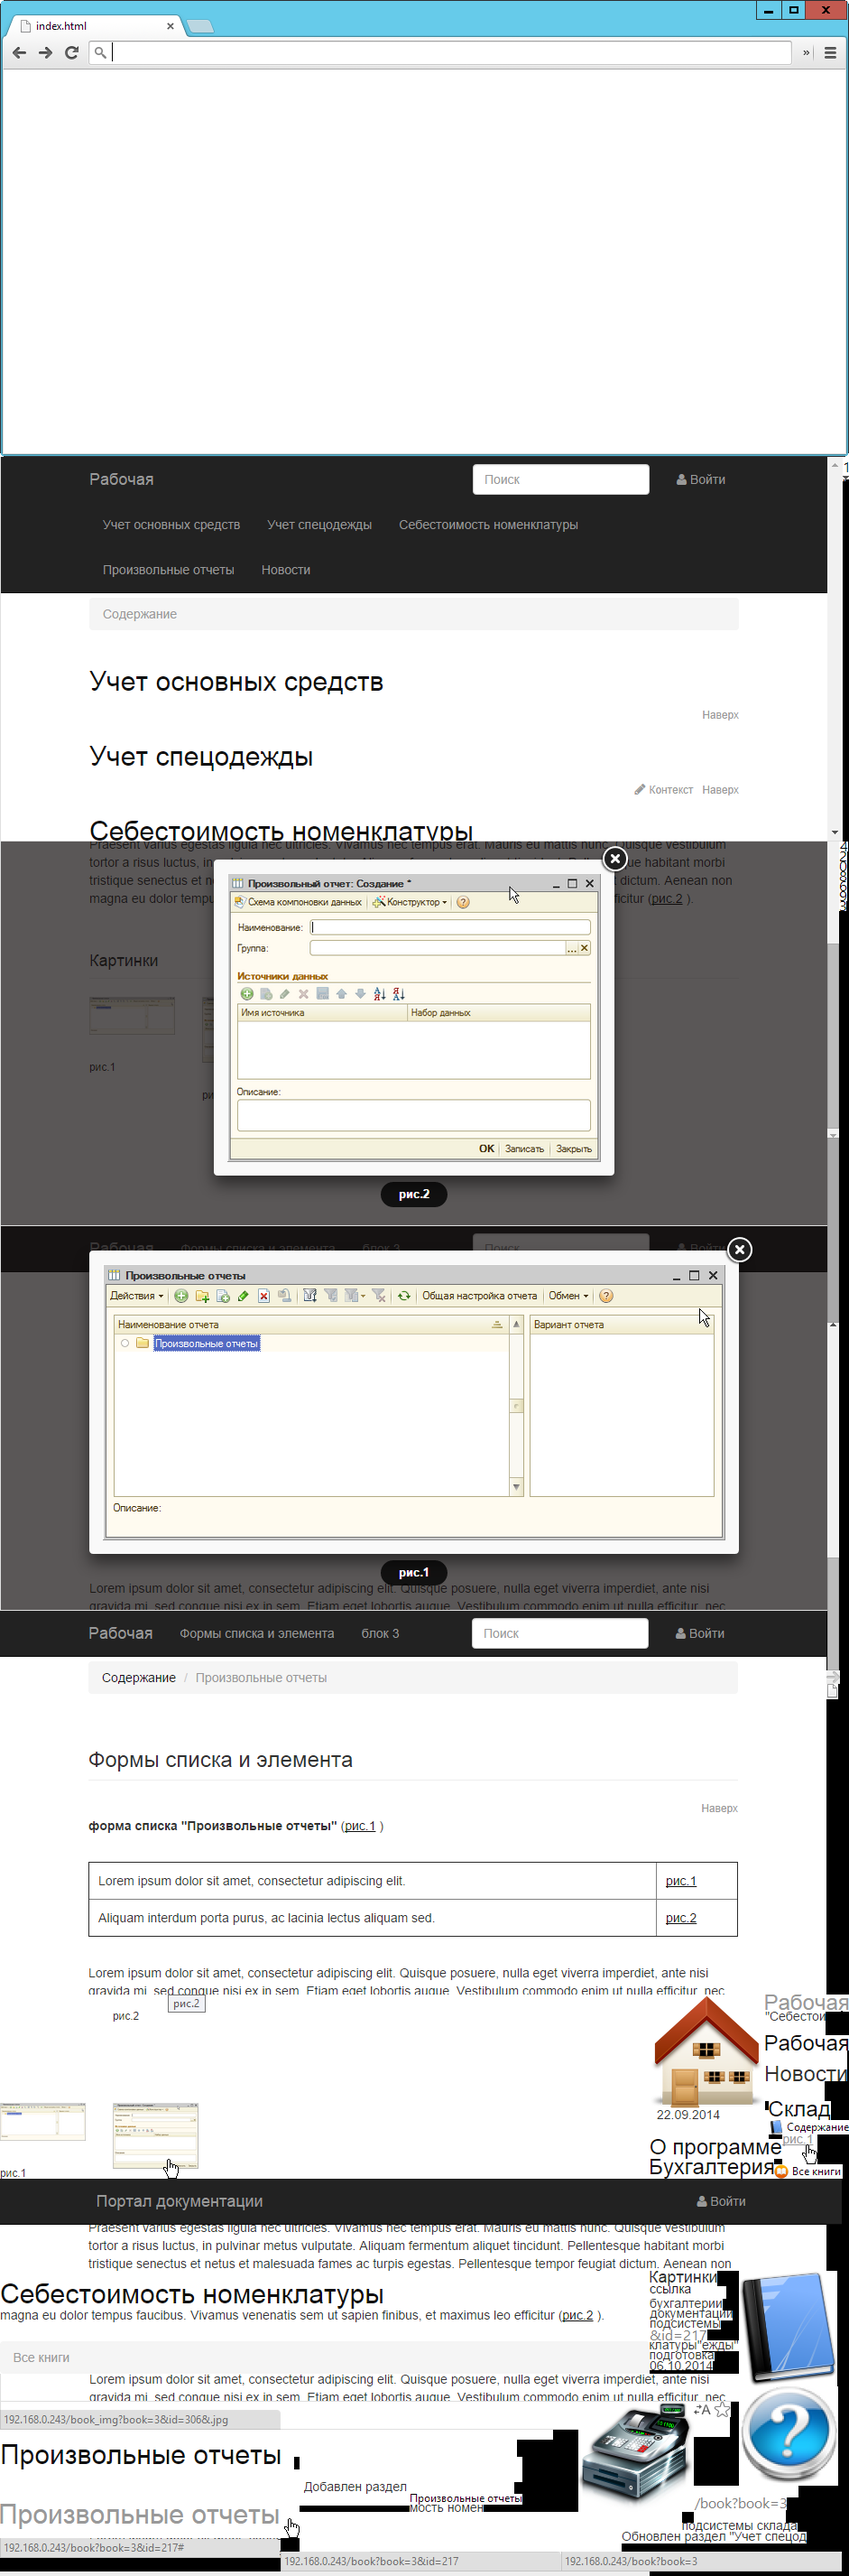
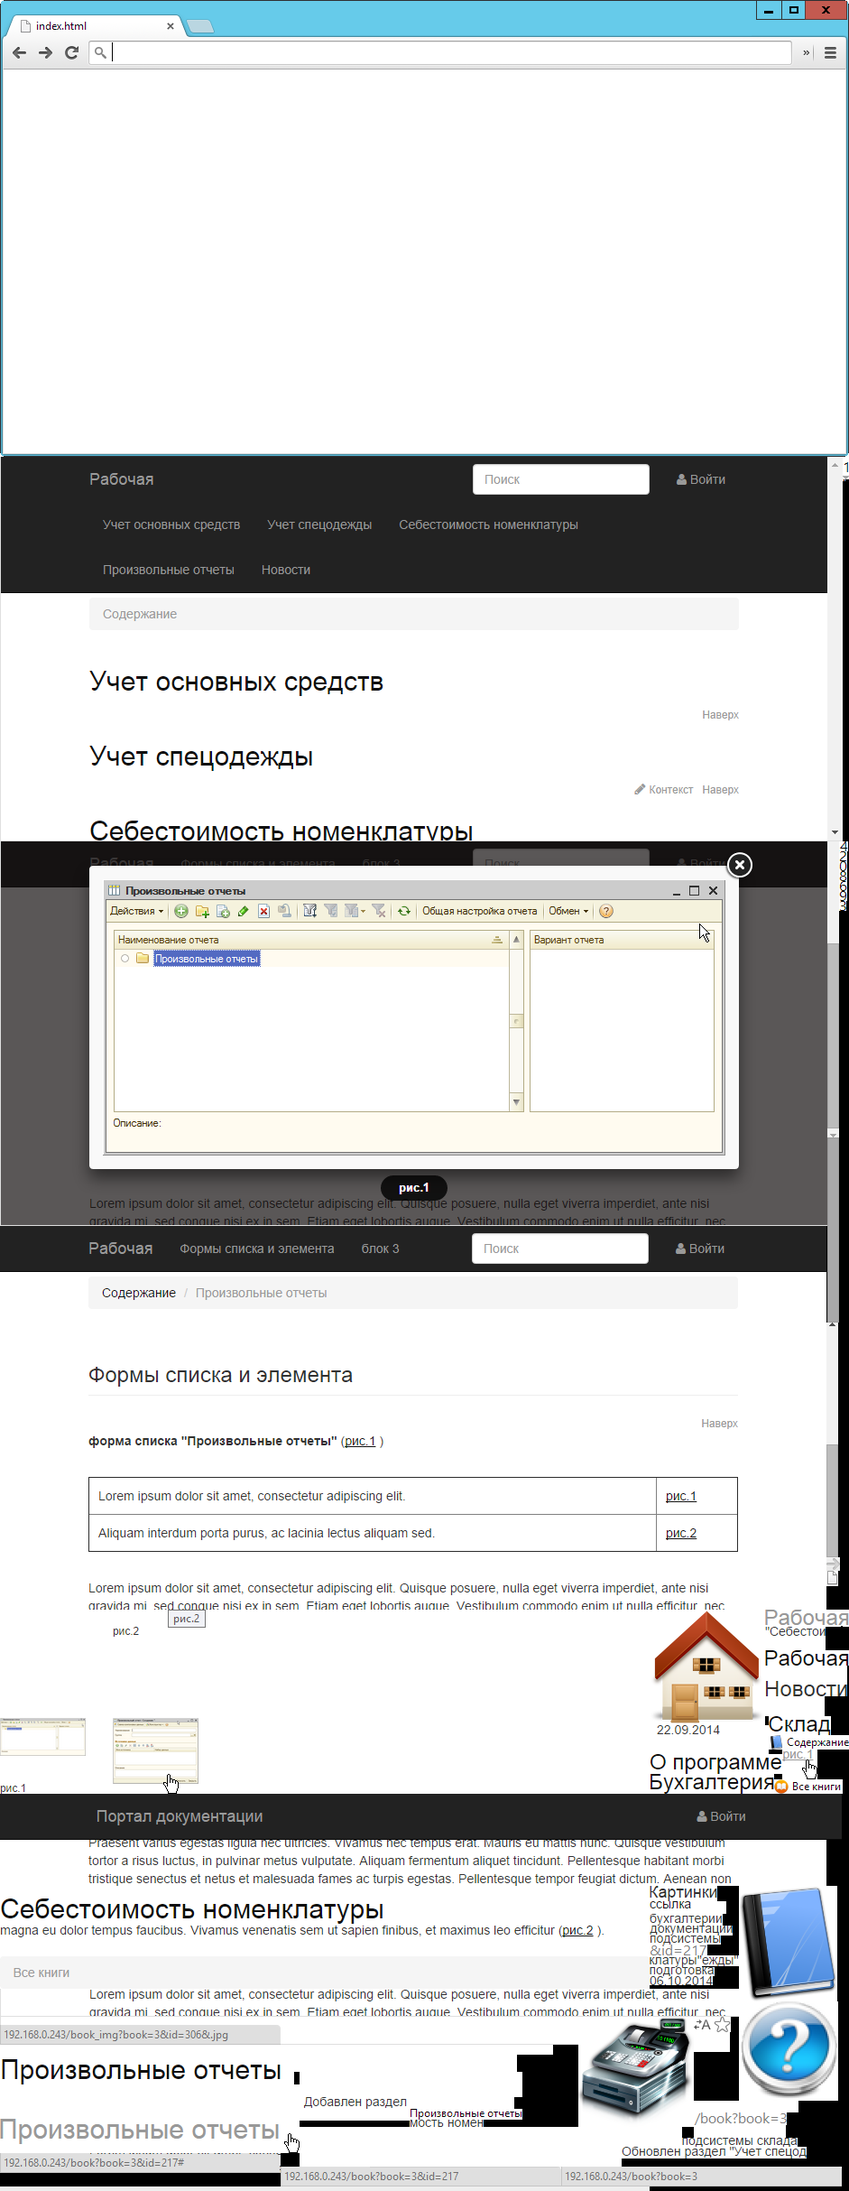
-

diff --git a/media/plg_ebook_carusel/snaps_anim.js b/media/plg_ebook_carusel/snaps_anim.js
@@ -1,1 +1,1 @@
-snaps_timeline = [{"delay": 150, "blit": [[0, 0, 941, 506, 0, 0]]}, {"delay": 150, "blit": [[934, 506, 7, 21, 124, 47]]}, {"delay": 150, "blit": [[930, 987, 9, 11, 133, 53]]}, {"delay": 150, "blit": [[930, 943, 9, 11, 142, 53]]}, {"delay": 150, "blit": [[934, 531, 3, 2, 151, 62]]}, {"delay": 150, "blit": [[935, 512, 6, 11, 155, 53]]}, {"delay": 150, "blit": [[930, 976, 9, 11, 163, 53]]}, {"delay": 150, "blit": [[930, 965, 9, 11, 172, 53]]}, {"delay": 150, "blit": [[934, 531, 3, 2, 181, 62]]}, {"delay": 150, "blit": [[930, 954, 9, 11, 184, 53]]}, {"delay": 150, "blit": [[934, 531, 3, 2, 193, 62]]}, {"delay": 150, "blit": [[916, 1865, 13, 17, 105, 51], [930, 943, 9, 11, 196, 53]]}, {"delay": 150, "blit": [[930, 932, 10, 11, 204, 53]]}, {"delay": 1050, "blit": [[930, 998, 8, 11, 214, 53]]}, {"delay": 2000, "blit": [[858, 2397, 76, 16, 20, 21], [769, 2660, 41, 17, 833, 50], [916, 1850, 15, 15, 43, 51], [0, 2413, 933, 51, 4, 77], [0, 2593, 720, 36, 111, 133], [720, 2209, 128, 128, 111, 189], [819, 2515, 109, 128, 499, 189], [819, 2643, 110, 110, 673, 189], [641, 2660, 128, 122, 298, 192], [720, 2369, 147, 22, 673, 323], [852, 2327, 69, 21, 111, 341], [720, 2391, 138, 22, 299, 341], [848, 2254, 93, 17, 487, 341], [756, 2794, 128, 10, 111, 380], [720, 2570, 79, 10, 298, 380], [720, 2605, 72, 10, 486, 380], [720, 2546, 81, 13, 298, 398], [720, 2559, 92, 11, 485, 400], [0, 2852, 720, 1, 111, 439]]}, {"delay": 2000, "blit": [[848, 2209, 93, 19, 487, 341], [889, 2376, 17, 21, 566, 360], [622, 2826, 311, 22, 3, 481]]}, {"delay": 2000, "blit": [[852, 2348, 89, 16, 20, 21], [769, 2766, 103, 14, 222, 52], [0, 506, 934, 426, 3, 77]]}, {"delay": 2000, "blit": [[1, 659, 916, 151, 4, 77], [920, 1465, 7, 4, 925, 84], [917, 1260, 13, 205, 922, 167], [99, 815, 720, 39, 102, 233], [703, 868, 116, 13, 706, 286], [99, 896, 216, 35, 102, 314], [315, 902, 142, 29, 318, 320], [359, 2535, 66, 22, 461, 333], [779, 857, 40, 24, 782, 358], [0, 2694, 70, 41, 102, 397], [72, 2700, 239, 29, 174, 403], [769, 2753, 116, 13, 706, 439], [779, 787, 40, 11, 782, 454], [332, 2782, 424, 22, 103, 480]]}, {"delay": 2000, "blit": [[0, 2515, 720, 42, 102, 80], [779, 787, 40, 11, 782, 138], [0, 2691, 326, 44, 102, 161], [917, 932, 13, 328, 922, 167], [779, 771, 40, 27, 782, 205], [332, 2721, 247, 28, 102, 244], [848, 2288, 91, 17, 103, 279], [454, 2749, 116, 13, 706, 286], [0, 2851, 720, 1, 102, 310], [332, 2804, 357, 22, 103, 327], [848, 2305, 66, 22, 461, 333], [779, 787, 40, 11, 782, 337], [720, 2615, 70, 10, 112, 366], [689, 2804, 205, 13, 240, 366], [778, 2592, 41, 12, 445, 366], [720, 2532, 85, 14, 737, 368], [720, 2337, 132, 32, 104, 406], [332, 2749, 122, 26, 239, 406], [848, 2228, 67, 26, 362, 406], [720, 2592, 58, 13, 513, 406], [454, 2774, 82, 8, 430, 408], [720, 2532, 46, 8, 737, 408], [573, 2691, 40, 11, 782, 454], [0, 2850, 720, 1, 102, 481]]}, {"delay": 2000, "blit": [[43, 51, 15, 15, 43, 51], [0, 2773, 332, 38, 104, 177], [311, 2826, 311, 22, 3, 481]]}, {"delay": 2000, "blit": [[454, 2762, 125, 12, 40, 24], [916, 1850, 15, 15, 43, 51], [720, 2580, 64, 12, 326, 52], [0, 1784, 916, 51, 4, 77], [922, 513, 7, 4, 925, 84], [98, 1840, 720, 36, 102, 133], [0, 2735, 332, 38, 104, 177], [769, 2688, 40, 11, 782, 221], [98, 1940, 293, 22, 102, 233], [0, 2849, 720, 1, 102, 264], [848, 2271, 91, 17, 103, 279], [919, 709, 13, 215, 922, 280], [779, 787, 40, 11, 782, 291], [98, 2017, 720, 13, 102, 310], [769, 2677, 40, 11, 782, 337], [98, 2062, 720, 83, 102, 355], [0, 2629, 819, 31, 3, 472]]}, {"delay": 2000, "blit": [[867, 2364, 39, 33, 386, 310], [0, 2811, 311, 22, 3, 481]]}, {"delay": 2000, "blit": [[0, 1358, 917, 426, 3, 77], [920, 1256, 7, 4, 925, 491]]}, {"delay": 2000, "blit": [[0, 1784, 916, 425, 4, 77], [917, 1725, 13, 125, 922, 94], [934, 527, 7, 4, 925, 491]]}, {"delay": 2000, "blit": [[0, 2464, 916, 51, 4, 77], [917, 1465, 13, 135, 922, 84], [0, 2557, 720, 36, 102, 133], [720, 2515, 75, 17, 103, 202], [0, 2848, 720, 1, 102, 228], [0, 2313, 720, 100, 102, 233], [917, 1725, 13, 125, 922, 260], [0, 2209, 720, 104, 102, 334], [0, 2660, 641, 31, 3, 472], [326, 2691, 247, 30, 561, 472], [769, 2780, 102, 14, 687, 472]]}, {"delay": 4000, "blit": [[0, 932, 917, 426, 3, 77], [922, 513, 7, 4, 925, 84], [917, 1600, 13, 125, 922, 260], [920, 1256, 7, 4, 925, 491]]}]
+snaps_timeline = [{"delay": 150, "blit": [[0, 0, 941, 506, 0, 0]]}, {"delay": 150, "blit": [[934, 506, 7, 21, 124, 47]]}, {"delay": 150, "blit": [[930, 987, 9, 11, 133, 53]]}, {"delay": 150, "blit": [[930, 943, 9, 11, 142, 53]]}, {"delay": 150, "blit": [[934, 531, 3, 2, 151, 62]]}, {"delay": 150, "blit": [[935, 512, 6, 11, 155, 53]]}, {"delay": 150, "blit": [[930, 976, 9, 11, 163, 53]]}, {"delay": 150, "blit": [[930, 965, 9, 11, 172, 53]]}, {"delay": 150, "blit": [[934, 531, 3, 2, 181, 62]]}, {"delay": 150, "blit": [[930, 954, 9, 11, 184, 53]]}, {"delay": 150, "blit": [[934, 531, 3, 2, 193, 62]]}, {"delay": 150, "blit": [[916, 1740, 13, 17, 105, 51], [930, 943, 9, 11, 196, 53]]}, {"delay": 150, "blit": [[930, 932, 10, 11, 204, 53]]}, {"delay": 1050, "blit": [[930, 998, 8, 11, 214, 53]]}, {"delay": 2000, "blit": [[858, 1971, 76, 16, 20, 21], [769, 2234, 41, 17, 833, 50], [916, 1725, 15, 15, 43, 51], [0, 1987, 933, 51, 4, 77], [0, 2167, 720, 36, 111, 133], [720, 1783, 128, 128, 111, 189], [819, 2089, 109, 128, 499, 189], [819, 2217, 110, 110, 673, 189], [641, 2234, 128, 122, 298, 192], [720, 1943, 147, 22, 673, 323], [852, 1901, 69, 21, 111, 341], [720, 1965, 138, 22, 299, 341], [848, 1828, 93, 17, 487, 341], [756, 2368, 128, 10, 111, 380], [720, 2144, 79, 10, 298, 380], [720, 2179, 72, 10, 486, 380], [720, 2120, 81, 13, 298, 398], [720, 2133, 92, 11, 485, 400], [0, 2426, 720, 1, 111, 439]]}, {"delay": 2000, "blit": [[848, 1783, 93, 19, 487, 341], [889, 1950, 17, 21, 566, 360], [622, 2400, 311, 22, 3, 481]]}, {"delay": 2000, "blit": [[852, 1922, 89, 16, 20, 21], [769, 2340, 103, 14, 222, 52], [0, 506, 934, 426, 3, 77]]}, {"delay": 2000, "blit": [[1, 659, 916, 151, 4, 77], [919, 1465, 7, 4, 925, 84], [917, 1260, 13, 205, 922, 167], [99, 815, 720, 39, 102, 233], [703, 868, 116, 13, 706, 286], [99, 896, 216, 35, 102, 314], [315, 902, 142, 29, 318, 320], [359, 2109, 66, 22, 461, 333], [779, 857, 40, 24, 782, 358], [0, 2268, 70, 41, 102, 397], [72, 2274, 239, 29, 174, 403], [769, 2327, 116, 13, 706, 439], [779, 787, 40, 11, 782, 454], [332, 2356, 424, 22, 103, 480]]}, {"delay": 2000, "blit": [[0, 2089, 720, 42, 102, 80], [779, 787, 40, 11, 782, 138], [0, 2265, 326, 44, 102, 161], [917, 932, 13, 328, 922, 167], [779, 771, 40, 27, 782, 205], [332, 2295, 247, 28, 102, 244], [848, 1862, 91, 17, 103, 279], [454, 2323, 116, 13, 706, 286], [0, 2425, 720, 1, 102, 310], [332, 2378, 357, 22, 103, 327], [848, 1879, 66, 22, 461, 333], [779, 787, 40, 11, 782, 337], [720, 2189, 70, 10, 112, 366], [689, 2378, 205, 13, 240, 366], [778, 2166, 41, 12, 445, 366], [720, 2106, 85, 14, 737, 368], [720, 1911, 132, 32, 104, 406], [332, 2323, 122, 26, 239, 406], [848, 1802, 67, 26, 362, 406], [720, 2166, 58, 13, 513, 406], [454, 2348, 82, 8, 430, 408], [720, 2106, 46, 8, 737, 408], [573, 2265, 40, 11, 782, 454], [0, 2424, 720, 1, 102, 481]]}, {"delay": 2000, "blit": [[43, 51, 15, 15, 43, 51], [0, 2347, 332, 38, 104, 177], [311, 2400, 311, 22, 3, 481]]}, {"delay": 2000, "blit": [[454, 2336, 125, 12, 40, 24], [916, 1725, 15, 15, 43, 51], [720, 2154, 64, 12, 326, 52], [0, 1358, 916, 51, 4, 77], [922, 513, 7, 4, 925, 84], [98, 1414, 720, 36, 102, 133], [0, 2309, 332, 38, 104, 177], [769, 2262, 40, 11, 782, 221], [98, 1514, 293, 22, 102, 233], [0, 2423, 720, 1, 102, 264], [848, 1845, 91, 17, 103, 279], [919, 709, 13, 215, 922, 280], [779, 787, 40, 11, 782, 291], [98, 1591, 720, 13, 102, 310], [769, 2251, 40, 11, 782, 337], [98, 1636, 720, 83, 102, 355], [0, 2203, 819, 31, 3, 472]]}, {"delay": 2000, "blit": [[867, 1938, 39, 33, 386, 310], [0, 2385, 311, 22, 3, 481]]}, {"delay": 2000, "blit": [[0, 932, 917, 426, 3, 77], [934, 527, 7, 4, 925, 491]]}, {"delay": 3000, "blit": [[0, 1358, 916, 425, 4, 77], [916, 1600, 13, 125, 922, 94], [922, 920, 7, 4, 925, 491]]}, {"delay": 4000, "blit": [[0, 2038, 916, 51, 4, 77], [916, 1465, 13, 135, 922, 84], [0, 2131, 720, 36, 102, 133], [720, 2089, 75, 17, 103, 202], [0, 2422, 720, 1, 102, 228], [0, 1887, 720, 100, 102, 233], [916, 1600, 13, 125, 922, 260], [0, 1783, 720, 104, 102, 334], [0, 2234, 641, 31, 3, 472], [326, 2265, 247, 30, 561, 472], [769, 2354, 102, 14, 687, 472]]}]

diff --git a/media/plg_ebook_carusel/snaps1_anim.js b/media/plg_ebook_carusel/snaps1_anim.js
@@ -1,1 +1,1 @@
-snaps1_timeline = [{"delay": 1000, "blit": [[0, 0, 939, 500, 0, 0]]}, {"delay": 1000, "blit": [[0, 500, 7, 21, 124, 47]]}, {"delay": 4000, "blit": [[7, 500, 9, 11, 133, 53]]}]
+snaps1_timeline = [{"delay": 2000, "blit": [[0, 0, 939, 505, 0, 0]]}, {"delay": 2000, "blit": [[921, 1008, 12, 21, 153, 187]]}, {"delay": 2000, "blit": [[0, 505, 939, 503, 0, 0], [935, 503, 3, 2, 934, 503]]}, {"delay": 2000, "blit": [[790, 1517, 74, 16, 520, 36], [0, 1473, 638, 436, 11, 58], [638, 1499, 268, 18, 659, 83], [638, 1473, 268, 26, 659, 173], [933, 1008, 4, 3, 887, 199]]}, {"delay": 2000, "blit": [[0, 1008, 921, 465, 9, 32]]}, {"delay": 2000, "blit": [[284, 1009, 23, 23, 298, 33], [638, 1517, 152, 12, 143, 40], [906, 1473, 25, 32, 546, 65]]}, {"delay": 4000, "blit": [[0, 1909, 445, 436, 459, 58]]}]

diff --git a/media/plg_ebook_carusel/carusel.js b/media/plg_ebook_carusel/carusel.js
@@ -5,19 +5,22 @@ jQuery(document).ready(function() {
 	
 	content =
 	[
-		document.getElementById("content1")
+		document.getElementById("content1"),
+		document.getElementById("content2")
 	]
 
 });
 
 var animation_urls =
 	[
-	 	"/media/plg_ebook_carusel/snaps_packed.png"
+	 	"/media/plg_ebook_carusel/snaps_packed.png",
+	 	"/media/plg_ebook_carusel/snaps1_packed.png"
 	]
 
 var animation_timelines =
 	[
-		snaps_timeline
+		snaps_timeline,
+		snaps1_timeline
 	]
 
 var cur_content = 0

diff --git a/plugins/content/ebook_carusel/ebook_carusel.php b/plugins/content/ebook_carusel/ebook_carusel.php
@@ -59,7 +59,7 @@ class PlgContentEbook_Carusel extends JPlugin
 		$text = JString::str_ireplace('{ebook_carusel=on}', '', $text);
 		
 		$this->loadScript('snaps_anim.js');
-// 		$this->loadScript('snaps1_anim.js');
+		$this->loadScript('snaps1_anim.js');
 // 		$this->loadScript('snaps3_anim.js');
 // 		$this->loadScript('snaps4_anim.js');
 // 		$this->loadScript('snaps5_anim.js');
